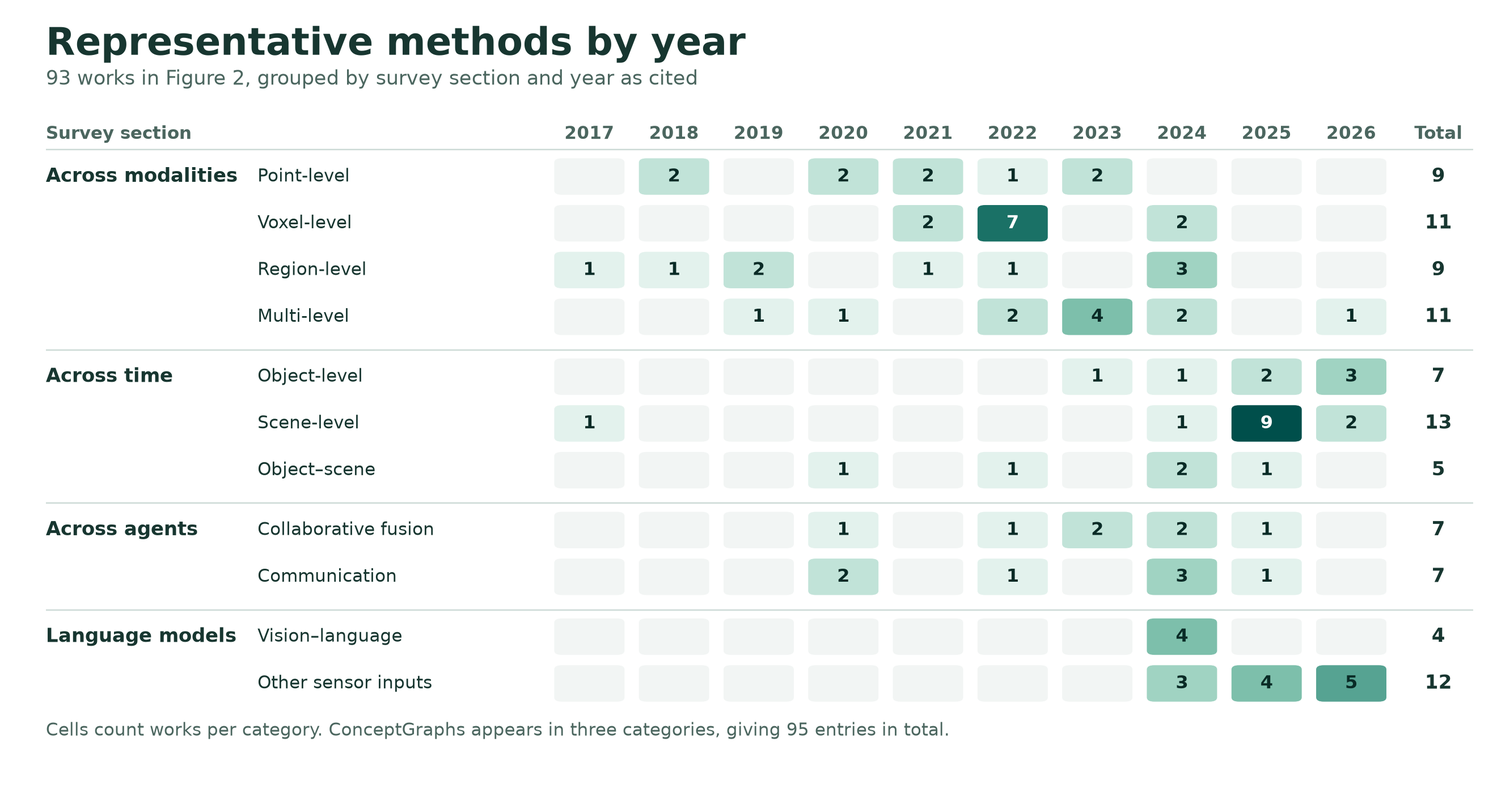
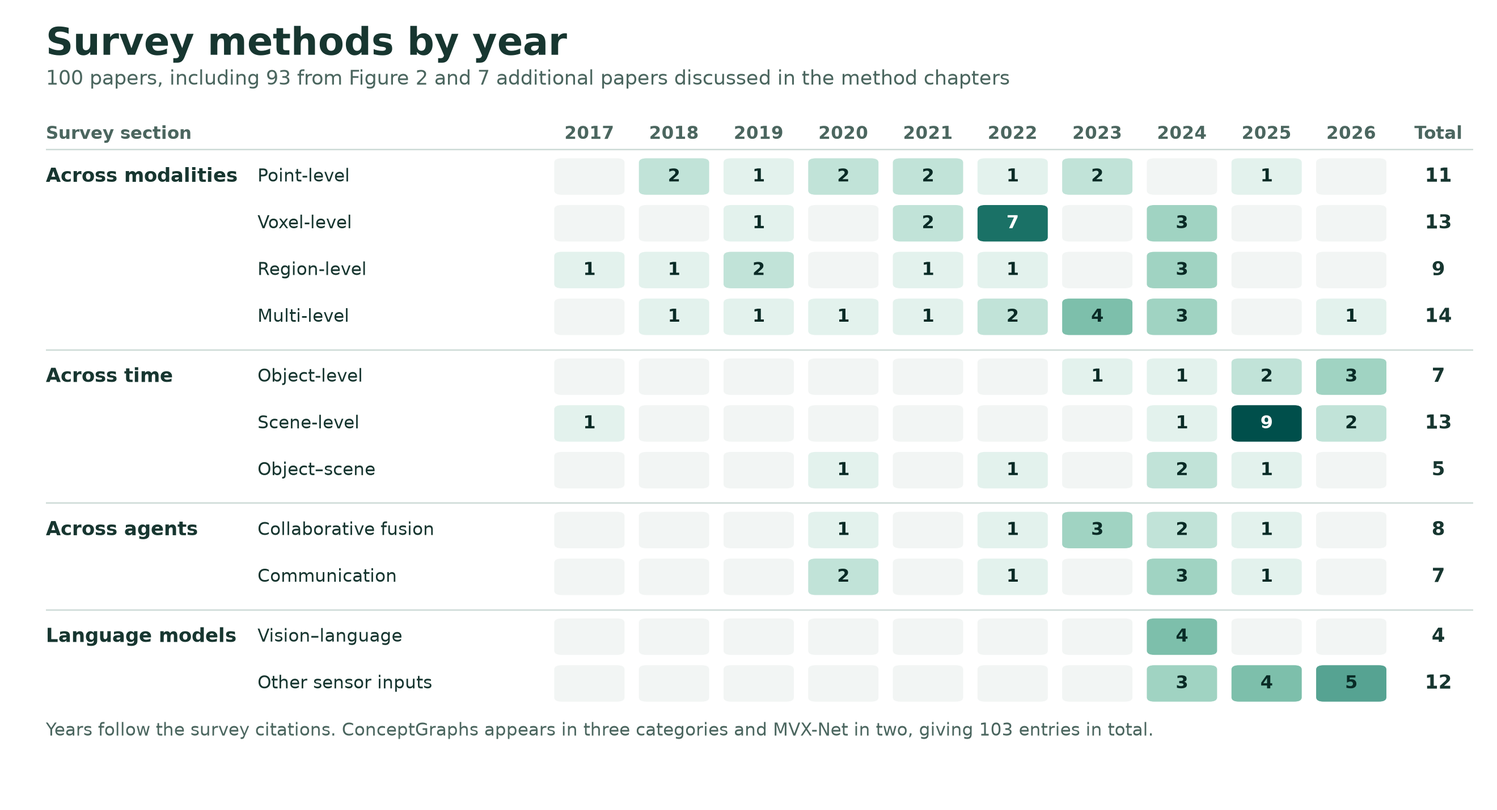
Include seven additional method papers discussed in the survey

diff --git a/CHAPTERS.md b/CHAPTERS.md
@@ -35,7 +35,7 @@ References are grouped by the dataset or method topic in which the survey cites 
 
 ### Point-level Fusion
 
-[Browse the methods in this Figure 2 category](METHODS.md#sec-3-1).
+[Browse the methods in this category](METHODS.md#sec-3-1).
 
 - [18](REFERENCES.md#ref-018) · **Frustum PointNets** · Frustum pointnets for 3d object detection from rgb-d data · [Paper](https://doi.org/10.1109/cvpr.2018.00102) · [Code](https://github.com/charlesq34/frustum-pointnets)
 - [19](REFERENCES.md#ref-019) · **PointFusion** · Pointfusion: Deep sensor fusion for 3d bounding box estimation · [Paper](https://openaccess.thecvf.com/content_cvpr_2018/html/Xu_PointFusion_Deep_Sensor_CVPR_2018_paper.html)
@@ -47,7 +47,7 @@ References are grouped by the dataset or method topic in which the survey cites 
 - [29](REFERENCES.md#ref-029) · **PointAugmenting** · Pointaugmenting: Cross-modal augmentation for 3d object detection · [Paper](https://doi.org/10.1109/cvpr46437.2021.01162) · [Code](https://github.com/VISION-SJTU/PointAugmenting)
 - [127](REFERENCES.md#ref-127) · Pointnet: Deep learning on point sets for 3d classification and segmentation · [Paper](https://openaccess.thecvf.com/content_cvpr_2017/html/Qi_PointNet_Deep_Learning_CVPR_2017_paper.html)
 - [128](REFERENCES.md#ref-128) · Pointnet++: Deep hierarchical feature learning on point sets in a metric space · [Paper](https://papers.nips.cc/paper_files/paper/2017/hash/d8bf84be3800d12f74d8b05e9b89836f-Abstract.html)
-- [129](REFERENCES.md#ref-129) · A multi-sensor fusion approach combined with RandLA-Net for large-scale point cloud segmentation in power grid scenario · [Paper](https://doi.org/10.3390/s25113350)
+- [129](REFERENCES.md#ref-129) · **Li et al. (power-grid segmentation)** · A multi-sensor fusion approach combined with RandLA-Net for large-scale point cloud segmentation in power grid scenario · [Paper](https://doi.org/10.3390/s25113350)
 
 **Additional entries in this Figure 2 category**
 
@@ -58,7 +58,7 @@ References are grouped by the dataset or method topic in which the survey cites 
 
 ### Voxel-level Fusion
 
-[Browse the methods in this Figure 2 category](METHODS.md#sec-3-2).
+[Browse the methods in this category](METHODS.md#sec-3-2).
 
 - [25](REFERENCES.md#ref-025) · **DeepFusion** · Deepfusion: Lidar-camera deep fusion for multi-modal 3d object detection · [Paper](https://openaccess.thecvf.com/content/CVPR2022/html/Li_DeepFusion_Lidar-Camera_Deep_Fusion_for_Multi-Modal_3D_Object_Detection_CVPR_2022_paper.html) · [Code](https://github.com/tensorflow/lingvo/blob/master/lingvo/tasks/car/deep_fusion.py)
 - [26](REFERENCES.md#ref-026) · **GraphAlign** · Graphalign: Enhancing accurate feature alignment by graph matching for multi-modal 3d object detection · [Paper](https://openaccess.thecvf.com/content/ICCV2023/html/Song_GraphAlign_Enhancing_Accurate_Feature_Alignment_by_Graph_matching_for_Multi-Modal_ICCV_2023_paper.html)
@@ -70,7 +70,7 @@ References are grouped by the dataset or method topic in which the survey cites 
 - [34](REFERENCES.md#ref-034) · **VoxelNeXtFusion** · Voxelnextfusion: A simple, unified and effective voxel fusion framework for multi-modal 3d object detection · [Paper](https://arxiv.org/abs/2401.02702)
 - [35](REFERENCES.md#ref-035) · **UVTR** · Unifying voxel-based representation with transformer for 3d object detection · [Paper](https://papers.nips.cc/paper_files/paper/2022/hash/752df938681b2cf15e5fc9689f0bcf3a-Abstract-Conference.html) · [Code](https://github.com/JIA-Lab-research/UVTR)
 - [36](REFERENCES.md#ref-036) · **HMFI** · Homogeneous multi-modal feature fusion and interaction for 3d object detection · [Paper](https://doi.org/10.1007/978-3-031-19839-7_40)
-- [130](REFERENCES.md#ref-130) · Real-time metric-semantic mapping for autonomous navigation in outdoor environments · [Paper](https://doi.org/10.1109/TASE.2024.3429280)
+- [130](REFERENCES.md#ref-130) · **Jiao et al. (metric-semantic mapping)** · Real-time metric-semantic mapping for autonomous navigation in outdoor environments · [Paper](https://doi.org/10.1109/TASE.2024.3429280)
 
 **Additional entries in this Figure 2 category**
 
@@ -82,7 +82,7 @@ References are grouped by the dataset or method topic in which the survey cites 
 
 ### Region-level Fusion
 
-[Browse the methods in this Figure 2 category](METHODS.md#sec-3-3).
+[Browse the methods in this category](METHODS.md#sec-3-3).
 
 - [27](REFERENCES.md#ref-027) · **CenterFusion** · CenterFusion: Center-based Radar and Camera Fusion for 3D Object Detection · [Paper](https://openaccess.thecvf.com/content/WACV2021/papers/Nabati_CenterFusion_Center-Based_Radar_and_Camera_Fusion_for_3D_Object_Detection_WACV_2021_paper.pdf) · [Code](https://github.com/mrnabati/CenterFusion)
 - [37](REFERENCES.md#ref-037) · **SFD** · Sparse fuse dense: Towards high quality 3d detection with depth completion · [Paper](https://openaccess.thecvf.com/content/CVPR2022/html/Wu_Sparse_Fuse_Dense_Towards_High_Quality_3D_Detection_With_Depth_CVPR_2022_paper.html) · [Code](https://github.com/LittlePey/SFD)
@@ -103,7 +103,7 @@ References are grouped by the dataset or method topic in which the survey cites 
 
 ### Multi-level Fusion
 
-[Browse the methods in this Figure 2 category](METHODS.md#sec-3-4).
+[Browse the methods in this category](METHODS.md#sec-3-4).
 
 - [46](REFERENCES.md#ref-046) · **RSDet** · Removal and selection: Improving RGB-infrared object detection via coarse-to-fine fusion · [Paper](https://arxiv.org/abs/2401.10731) · [Code](https://github.com/Zhao-Tian-yi/RSDet)
 - [47](REFERENCES.md#ref-047) · **MMF** · Multi-task multi-sensor fusion for 3d object detection · [Paper](https://doi.org/10.1109/cvpr.2019.00752)
@@ -117,10 +117,10 @@ References are grouped by the dataset or method topic in which the survey cites 
 - [55](REFERENCES.md#ref-055) · **SeaDATE** · SeaDATE: Remedy Dual-Attention Transformer with Semantic Alignment via Contrast Learning for Multimodal Object Detection · [Paper](https://doi.org/10.1109/tcsvt.2024.3520318)
 - [56](REFERENCES.md#ref-056) · **CSSA** · Multimodal object detection by channel switching and spatial attention · [Paper](https://openaccess.thecvf.com/content/CVPR2023W/PBVS/html/Cao_Multimodal_Object_Detection_by_Channel_Switching_and_Spatial_Attention_CVPRW_2023_paper.html)
 - [57](REFERENCES.md#ref-057) · **Fusion-Mamba** · Fusion-mamba for cross-modality object detection · [Paper](https://arxiv.org/abs/2404.09146) · [Code](https://github.com/EhanDong/Fusion-Mamba)
-- [131](REFERENCES.md#ref-131) · Deep continuous fusion for multi-sensor 3d object detection · [Paper](https://openaccess.thecvf.com/content_ECCV_2018/html/Ming_Liang_Deep_Continuous_Fusion_ECCV_2018_paper.html)
-- [132](REFERENCES.md#ref-132) · Cross-modality 3d object detection · [Paper](https://doi.org/10.1109/wacv48630.2021.00382)
-- [133](REFERENCES.md#ref-133) · Mvx-net: Multimodal voxelnet for 3d object detection · [Paper](https://arxiv.org/abs/1904.01649)
-- [134](REFERENCES.md#ref-134) · A deep-learning method based on the multistage fusion of radar and camera in uav obstacle avoidance · [Paper](https://doi.org/10.1109/TAES.2024.3406495)
+- [131](REFERENCES.md#ref-131) · **Deep Continuous Fusion** · Deep continuous fusion for multi-sensor 3d object detection · [Paper](https://openaccess.thecvf.com/content_ECCV_2018/html/Ming_Liang_Deep_Continuous_Fusion_ECCV_2018_paper.html)
+- [132](REFERENCES.md#ref-132) · **Cross-Modality 3D Object Detection** · Cross-modality 3d object detection · [Paper](https://doi.org/10.1109/wacv48630.2021.00382)
+- [133](REFERENCES.md#ref-133) · **MVX-Net** · Mvx-net: Multimodal voxelnet for 3d object detection · [Paper](https://arxiv.org/abs/1904.01649)
+- [134](REFERENCES.md#ref-134) · **Wang et al. (radar-camera obstacle avoidance)** · A deep-learning method based on the multistage fusion of radar and camera in uav obstacle avoidance · [Paper](https://doi.org/10.1109/TAES.2024.3406495)
 
 <a name="sec-4"></a>
 
@@ -130,7 +130,7 @@ References are grouped by the dataset or method topic in which the survey cites 
 
 ### Object-Level Temporal Fusion
 
-[Browse the methods in this Figure 2 category](METHODS.md#sec-4-1).
+[Browse the methods in this category](METHODS.md#sec-4-1).
 
 - [41](REFERENCES.md#ref-041) · **ConceptGraphs** · Conceptgraphs: Open-vocabulary 3d scene graphs for perception and planning · [Paper](https://doi.org/10.1109/ICRA57147.2024.10610243) · [Code](https://github.com/concept-graphs/concept-graphs)
 - [58](REFERENCES.md#ref-058) · **StreamPETR** · Exploring Object-Centric Temporal Modeling for Efficient Multi-View 3D Object Detection · [Paper](https://openaccess.thecvf.com/content/ICCV2023/html/Wang_Exploring_Object-Centric_Temporal_Modeling_for_Efficient_Multi-View_3D_Object_Detection_ICCV_2023_paper.html) · [Code](https://github.com/exiawsh/StreamPETR)
@@ -144,7 +144,7 @@ References are grouped by the dataset or method topic in which the survey cites 
 
 ### Scene-Level Temporal Fusion
 
-[Browse the methods in this Figure 2 category](METHODS.md#sec-4-2).
+[Browse the methods in this category](METHODS.md#sec-4-2).
 
 - [64](REFERENCES.md#ref-064) · **Q-TempFusion** · Q-TempFusion: Quantization-Aware Temporal Multi-Sensor Fusion on Bird's-Eye View Representation · [Paper](https://openaccess.thecvf.com/content/WACV2025/html/Yu_Q-TempFusion_Quantization-Aware_Temporal_Multi-Sensor_Fusion_on_Birds-Eye_View_Representation_WACV_2025_paper.html)
 - [65](REFERENCES.md#ref-065) · **CRT-Fusion** · CRT-Fusion: Camera, Radar, Temporal Fusion Using Motion Information for 3D Object Detection · [Paper](https://proceedings.neurips.cc/paper_files/paper/2024/hash/c49a28241640407b23bba8f2495f4bc9-Abstract-Conference.html) · [Code](https://github.com/mjseong0414/CRT-Fusion)
@@ -164,7 +164,7 @@ References are grouped by the dataset or method topic in which the survey cites 
 
 ### Object–Scene Temporal Fusion
 
-[Browse the methods in this Figure 2 category](METHODS.md#sec-4-3).
+[Browse the methods in this category](METHODS.md#sec-4-3).
 
 - [41](REFERENCES.md#ref-041) · **ConceptGraphs** · Conceptgraphs: Open-vocabulary 3d scene graphs for perception and planning · [Paper](https://doi.org/10.1109/ICRA57147.2024.10610243) · [Code](https://github.com/concept-graphs/concept-graphs)
 - [77](REFERENCES.md#ref-077) · **DovSG** · Dynamic open-vocabulary 3d scene graphs for long-term language-guided mobile manipulation · [Paper](https://doi.org/10.1109/LRA.2025.3547643) · [Code](https://github.com/BJHYZJ/DovSG)
@@ -183,7 +183,7 @@ References are grouped by the dataset or method topic in which the survey cites 
 
 ### Collaborative Fusion
 
-[Browse the methods in this Figure 2 category](METHODS.md#sec-5-1).
+[Browse the methods in this category](METHODS.md#sec-5-1).
 
 - [81](REFERENCES.md#ref-081) · **V2VNet** · V2vnet: Vehicle-to-vehicle communication for joint perception and prediction · [Paper](https://www.ecva.net/papers/eccv_2020/papers_ECCV/papers/123470596.pdf)
 - [82](REFERENCES.md#ref-082) · **CoBEVT** · Cobevt: Cooperative bird's eye view semantic segmentation with sparse transformers · [Paper](https://arxiv.org/abs/2207.02202) · [Code](https://github.com/DerrickXuNu/CoBEVT)
@@ -192,13 +192,13 @@ References are grouped by the dataset or method topic in which the survey cites 
 - [85](REFERENCES.md#ref-085) · **HM-ViT** · HM-ViT: Hetero-modal vehicle-to-vehicle cooperative perception with vision transformer · [Paper](https://openaccess.thecvf.com/content/ICCV2023/html/Xiang_HM-ViT_Hetero-Modal_Vehicle-to-Vehicle_Cooperative_Perception_with_Vision_Transformer_ICCV_2023_paper.html) · [Code](https://github.com/XHwind/HM-ViT)
 - [86](REFERENCES.md#ref-086) · **MCOP** · MCOP: Multi-UAV Collaborative Occupancy Prediction · [Paper](https://openaccess.thecvf.com/content/ICCV2025/html/Lin_MCOP_Multi-UAV_Collaborative_Occupancy_Prediction_ICCV_2025_paper.html)
 - [87](REFERENCES.md#ref-087) · **MRCNet** · Multi-agent Collaborative Perception via Motion-aware Robust Communication Network · [Paper](https://openaccess.thecvf.com/content/CVPR2024/html/Hong_Multi-agent_Collaborative_Perception_via_Motion-aware_Robust_Communication_Network_CVPR_2024_paper.html)
-- [135](REFERENCES.md#ref-135) · Visual, spatial, geometric-preserved place recognition for cross-view and cross-modal collaborative perception · [Paper](https://doi.org/10.1109/IROS55552.2023.10341898)
+- [135](REFERENCES.md#ref-135) · **Gao et al. (cross-view place recognition)** · Visual, spatial, geometric-preserved place recognition for cross-view and cross-modal collaborative perception · [Paper](https://doi.org/10.1109/IROS55552.2023.10341898)
 
 <a name="sec-5-2"></a>
 
 ### Agent-to-Agent Communication
 
-[Browse the methods in this Figure 2 category](METHODS.md#sec-5-2).
+[Browse the methods in this category](METHODS.md#sec-5-2).
 
 - [88](REFERENCES.md#ref-088) · **When2com** · When2com: Multi-agent perception via communication graph grouping · [Paper](https://doi.org/10.1109/CVPR42600.2020.00416) · [Code](https://github.com/GT-RIPL/MultiAgentPerception)
 - [89](REFERENCES.md#ref-089) · **Who2com** · Who2com: Collaborative perception via learnable handshake communication · [Paper](https://doi.org/10.1109/ICRA40945.2020.9197364) · [Project](https://ycliu93.github.io/projects/multi-agent-perception.html)
@@ -216,7 +216,7 @@ References are grouped by the dataset or method topic in which the survey cites 
 
 ### Vision–Language Models
 
-[Browse the methods in this Figure 2 category](METHODS.md#sec-6-1).
+[Browse the methods in this category](METHODS.md#sec-6-1).
 
 - [95](REFERENCES.md#ref-095) · **SpatialVLM** · Spatialvlm: Endowing vision-language models with spatial reasoning capabilities · [Paper](https://doi.org/10.1109/CVPR52733.2024.01370) · [Project](https://spatial-vlm.github.io/)
 - [96](REFERENCES.md#ref-096) · **RoboPoint** · RoboPoint: A Vision-Language Model for Spatial Affordance Prediction for Robotics · [Paper](https://arxiv.org/abs/2406.10721) · [Code](https://github.com/wentaoyuan/RoboPoint)
@@ -227,7 +227,7 @@ References are grouped by the dataset or method topic in which the survey cites 
 
 ### LLMs with Other Sensor Modalities
 
-[Browse the methods in this Figure 2 category](METHODS.md#sec-6-2).
+[Browse the methods in this category](METHODS.md#sec-6-2).
 
 - [99](REFERENCES.md#ref-099) · **LiDAR-LLM** · Lidar-llm: Exploring the potential of large language models for 3d lidar understanding · [Paper](https://ojs.aaai.org/index.php/AAAI/article/download/33001/35156) · [Project](https://sites.google.com/view/lidar-llm)
 - [100](REFERENCES.md#ref-100) · **TOD3Cap** · Tod3cap: Towards 3d dense captioning in outdoor scenes · [Paper](https://doi.org/10.1007/978-3-031-72649-1_21) · [Code](https://github.com/jxbbb/TOD3Cap)

diff --git a/README.md b/README.md
@@ -7,11 +7,11 @@ Datasets and methods for embodied perception across modalities, time, and agents
 
 [Datasets](#datasets) · [Methods](#methods)
 
-![Counts of Figure 2 methods by publication year and survey category, from 2017 to 2026.](method-timeline.png)
+![Counts of method papers by publication year and category, from 2017 to 2026.](method-timeline.png)
 
 ## Latest update
 
-**18 November 2026** · The catalog includes 15 datasets and 118 references. The method tables cover the 93 representative works in Figure 2. Original manuscript reference numbers are preserved.
+**18 November 2026** · The catalog includes 15 datasets and 118 references. The tables cover 100 method papers, including 93 from Figure 2 and seven additional papers discussed in the text.
 
 <a name="methods-nav"></a>
 
@@ -51,7 +51,7 @@ Each dataset name links to its project. Scale refers to the subset or release su
 
 ## Methods
 
-Method names and group assignments follow Figure 2. Each paper title is paired with its venue and year as cited. The resource column links to the paper and, where verified, author code or a project page. ConceptGraphs appears in three groups. The two Hydra entries correspond to distinct papers. The [section index](CHAPTERS.md) also includes nine additional references discussed in the method chapters.
+The tables link each paper to its source and, where available, the authors’ code or project page. Within each category, the Figure 2 entries appear first, followed by additional methods discussed in the text. ConceptGraphs appears in three categories. MVX-Net has separate point-level and voxel-level variants, each listed under its fusion type.
 
 ### Across modalities
 
@@ -71,6 +71,13 @@ Method names and group assignments follow Figure 2. Each paper title is paired w
 | **DeepFusion** | Deepfusion: Lidar-camera deep fusion for multi-modal 3d object detection | CVPR · 2022 | [Paper](https://openaccess.thecvf.com/content/CVPR2022/html/Li_DeepFusion_Lidar-Camera_Deep_Fusion_for_Multi-Modal_3D_Object_Detection_CVPR_2022_paper.html) · [Code](https://github.com/tensorflow/lingvo/blob/master/lingvo/tasks/car/deep_fusion.py) | [25](REFERENCES.md#ref-025) |
 | **GraphAlign** | Graphalign: Enhancing accurate feature alignment by graph matching for multi-modal 3d object detection | ICCV · 2023 | [Paper](https://openaccess.thecvf.com/content/ICCV2023/html/Song_GraphAlign_Enhancing_Accurate_Feature_Alignment_by_Graph_matching_for_Multi-Modal_ICCV_2023_paper.html) | [26](REFERENCES.md#ref-026) |
 
+**Additional methods discussed in the text**
+
+| Method | Paper title | Venue · year as cited | Resources | Ref. |
+| --- | --- | --- | --- | ---: |
+| **Li et al. (power-grid segmentation)** | A multi-sensor fusion approach combined with RandLA-Net for large-scale point cloud segmentation in power grid scenario | Sensors · 2025 | [Paper](https://doi.org/10.3390/s25113350) | [129](REFERENCES.md#ref-129) |
+| **MVX-Net (PointFusion variant)** | Mvx-net: Multimodal voxelnet for 3d object detection | ICRA · 2019 | [Paper](https://arxiv.org/abs/1904.01649) | [133](REFERENCES.md#ref-133) |
+
 <a name="methods-3-2"></a>
 
 #### Voxel-level Fusion
@@ -88,6 +95,13 @@ Method names and group assignments follow Figure 2. Each paper title is paired w
 | **UVTR** | Unifying voxel-based representation with transformer for 3d object detection | NeurIPS · 2022 | [Paper](https://papers.nips.cc/paper_files/paper/2022/hash/752df938681b2cf15e5fc9689f0bcf3a-Abstract-Conference.html) · [Code](https://github.com/JIA-Lab-research/UVTR) | [35](REFERENCES.md#ref-035) |
 | **HMFI** | Homogeneous multi-modal feature fusion and interaction for 3d object detection | ECCV · 2022 | [Paper](https://doi.org/10.1007/978-3-031-19839-7_40) | [36](REFERENCES.md#ref-036) |
 | **SFD** | Sparse fuse dense: Towards high quality 3d detection with depth completion | CVPR · 2022 | [Paper](https://openaccess.thecvf.com/content/CVPR2022/html/Wu_Sparse_Fuse_Dense_Towards_High_Quality_3D_Detection_With_Depth_CVPR_2022_paper.html) · [Code](https://github.com/LittlePey/SFD) | [37](REFERENCES.md#ref-037) |
+
+**Additional methods discussed in the text**
+
+| Method | Paper title | Venue · year as cited | Resources | Ref. |
+| --- | --- | --- | --- | ---: |
+| **Jiao et al. (metric-semantic mapping)** | Real-time metric-semantic mapping for autonomous navigation in outdoor environments | IEEE T-ASE · 2024 | [Paper](https://doi.org/10.1109/TASE.2024.3429280) | [130](REFERENCES.md#ref-130) |
+| **MVX-Net (VoxelFusion variant)** | Mvx-net: Multimodal voxelnet for 3d object detection | ICRA · 2019 | [Paper](https://arxiv.org/abs/1904.01649) | [133](REFERENCES.md#ref-133) |
 
 <a name="methods-3-3"></a>
 
@@ -122,6 +136,14 @@ Method names and group assignments follow Figure 2. Each paper title is paired w
 | **SeaDATE** | SeaDATE: Remedy Dual-Attention Transformer with Semantic Alignment via Contrast Learning for Multimodal Object Detection | IEEE TCSVT · 2024 | [Paper](https://doi.org/10.1109/tcsvt.2024.3520318) | [55](REFERENCES.md#ref-055) |
 | **CSSA** | Multimodal object detection by channel switching and spatial attention | CVPR · 2023 | [Paper](https://openaccess.thecvf.com/content/CVPR2023W/PBVS/html/Cao_Multimodal_Object_Detection_by_Channel_Switching_and_Spatial_Attention_CVPRW_2023_paper.html) | [56](REFERENCES.md#ref-056) |
 | **Fusion-Mamba** | Fusion-mamba for cross-modality object detection | arXiv · 2024 | [Paper](https://arxiv.org/abs/2404.09146) · [Code](https://github.com/EhanDong/Fusion-Mamba) | [57](REFERENCES.md#ref-057) |
+
+**Additional methods discussed in the text**
+
+| Method | Paper title | Venue · year as cited | Resources | Ref. |
+| --- | --- | --- | --- | ---: |
+| **Deep Continuous Fusion** | Deep continuous fusion for multi-sensor 3d object detection | ECCV · 2018 | [Paper](https://openaccess.thecvf.com/content_ECCV_2018/html/Ming_Liang_Deep_Continuous_Fusion_ECCV_2018_paper.html) | [131](REFERENCES.md#ref-131) |
+| **Cross-Modality 3D Object Detection** | Cross-modality 3d object detection | WACV · 2021 | [Paper](https://doi.org/10.1109/wacv48630.2021.00382) | [132](REFERENCES.md#ref-132) |
+| **Wang et al. (radar-camera obstacle avoidance)** | A deep-learning method based on the multistage fusion of radar and camera in uav obstacle avoidance | IEEE TAES · 2024 | [Paper](https://doi.org/10.1109/TAES.2024.3406495) | [134](REFERENCES.md#ref-134) |
 
 ### Across time
 
@@ -186,6 +208,12 @@ Method names and group assignments follow Figure 2. Each paper title is paired w
 | **HM-ViT** | HM-ViT: Hetero-modal vehicle-to-vehicle cooperative perception with vision transformer | ICCV · 2023 | [Paper](https://openaccess.thecvf.com/content/ICCV2023/html/Xiang_HM-ViT_Hetero-Modal_Vehicle-to-Vehicle_Cooperative_Perception_with_Vision_Transformer_ICCV_2023_paper.html) · [Code](https://github.com/XHwind/HM-ViT) | [85](REFERENCES.md#ref-085) |
 | **MCOP** | MCOP: Multi-UAV Collaborative Occupancy Prediction | ICCV · 2025 | [Paper](https://openaccess.thecvf.com/content/ICCV2025/html/Lin_MCOP_Multi-UAV_Collaborative_Occupancy_Prediction_ICCV_2025_paper.html) | [86](REFERENCES.md#ref-086) |
 | **MRCNet** | Multi-agent Collaborative Perception via Motion-aware Robust Communication Network | CVPR · 2024 | [Paper](https://openaccess.thecvf.com/content/CVPR2024/html/Hong_Multi-agent_Collaborative_Perception_via_Motion-aware_Robust_Communication_Network_CVPR_2024_paper.html) | [87](REFERENCES.md#ref-087) |
+
+**Additional methods discussed in the text**
+
+| Method | Paper title | Venue · year as cited | Resources | Ref. |
+| --- | --- | --- | --- | ---: |
+| **Gao et al. (cross-view place recognition)** | Visual, spatial, geometric-preserved place recognition for cross-view and cross-modal collaborative perception | IROS · 2023 | [Paper](https://doi.org/10.1109/IROS55552.2023.10341898) | [135](REFERENCES.md#ref-135) |
 
 <a name="methods-5-2"></a>
 

diff --git a/METHODS.md b/METHODS.md
@@ -1,8 +1,8 @@
-# Methods in Figure 2
+# Methods for embodied perception
 
 [Overview](README.md) · [References](REFERENCES.md) · [All method-chapter papers](CHAPTERS.md#sec-3)
 
-The survey groups 93 works into 11 categories. ConceptGraphs appears under region-level, object-level temporal, and object–scene temporal fusion. The two entries named Hydra refer to different papers.
+The tables cover 100 method papers across 11 categories: 93 from Figure 2 and seven additional papers discussed in the text. ConceptGraphs appears under region-level, object-level temporal, and object–scene temporal fusion. MVX-Net appears under both point-level and voxel-level fusion for its two variants. The two entries named Hydra refer to different papers.
 
 - [Point-level Fusion](#sec-3-1)
 - [Voxel-level Fusion](#sec-3-2)
@@ -32,6 +32,13 @@ The survey groups 93 works into 11 categories. ConceptGraphs appears under regio
 | **DeepFusion** | Deepfusion: Lidar-camera deep fusion for multi-modal 3d object detection | CVPR · 2022 | [Paper](https://openaccess.thecvf.com/content/CVPR2022/html/Li_DeepFusion_Lidar-Camera_Deep_Fusion_for_Multi-Modal_3D_Object_Detection_CVPR_2022_paper.html) · [Code](https://github.com/tensorflow/lingvo/blob/master/lingvo/tasks/car/deep_fusion.py) | [25](REFERENCES.md#ref-025) |
 | **GraphAlign** | Graphalign: Enhancing accurate feature alignment by graph matching for multi-modal 3d object detection | ICCV · 2023 | [Paper](https://openaccess.thecvf.com/content/ICCV2023/html/Song_GraphAlign_Enhancing_Accurate_Feature_Alignment_by_Graph_matching_for_Multi-Modal_ICCV_2023_paper.html) | [26](REFERENCES.md#ref-026) |
 
+**Additional methods discussed in the text**
+
+| Method | Paper title | Venue · year as cited | Resources | Ref. |
+| --- | --- | --- | --- | ---: |
+| **Li et al. (power-grid segmentation)** | A multi-sensor fusion approach combined with RandLA-Net for large-scale point cloud segmentation in power grid scenario | Sensors · 2025 | [Paper](https://doi.org/10.3390/s25113350) | [129](REFERENCES.md#ref-129) |
+| **MVX-Net (PointFusion variant)** | Mvx-net: Multimodal voxelnet for 3d object detection | ICRA · 2019 | [Paper](https://arxiv.org/abs/1904.01649) | [133](REFERENCES.md#ref-133) |
+
 <a name="sec-3-2"></a>
 
 ## Voxel-level Fusion
@@ -49,6 +56,13 @@ The survey groups 93 works into 11 categories. ConceptGraphs appears under regio
 | **UVTR** | Unifying voxel-based representation with transformer for 3d object detection | NeurIPS · 2022 | [Paper](https://papers.nips.cc/paper_files/paper/2022/hash/752df938681b2cf15e5fc9689f0bcf3a-Abstract-Conference.html) · [Code](https://github.com/JIA-Lab-research/UVTR) | [35](REFERENCES.md#ref-035) |
 | **HMFI** | Homogeneous multi-modal feature fusion and interaction for 3d object detection | ECCV · 2022 | [Paper](https://doi.org/10.1007/978-3-031-19839-7_40) | [36](REFERENCES.md#ref-036) |
 | **SFD** | Sparse fuse dense: Towards high quality 3d detection with depth completion | CVPR · 2022 | [Paper](https://openaccess.thecvf.com/content/CVPR2022/html/Wu_Sparse_Fuse_Dense_Towards_High_Quality_3D_Detection_With_Depth_CVPR_2022_paper.html) · [Code](https://github.com/LittlePey/SFD) | [37](REFERENCES.md#ref-037) |
+
+**Additional methods discussed in the text**
+
+| Method | Paper title | Venue · year as cited | Resources | Ref. |
+| --- | --- | --- | --- | ---: |
+| **Jiao et al. (metric-semantic mapping)** | Real-time metric-semantic mapping for autonomous navigation in outdoor environments | IEEE T-ASE · 2024 | [Paper](https://doi.org/10.1109/TASE.2024.3429280) | [130](REFERENCES.md#ref-130) |
+| **MVX-Net (VoxelFusion variant)** | Mvx-net: Multimodal voxelnet for 3d object detection | ICRA · 2019 | [Paper](https://arxiv.org/abs/1904.01649) | [133](REFERENCES.md#ref-133) |
 
 <a name="sec-3-3"></a>
 
@@ -83,6 +97,14 @@ The survey groups 93 works into 11 categories. ConceptGraphs appears under regio
 | **SeaDATE** | SeaDATE: Remedy Dual-Attention Transformer with Semantic Alignment via Contrast Learning for Multimodal Object Detection | IEEE TCSVT · 2024 | [Paper](https://doi.org/10.1109/tcsvt.2024.3520318) | [55](REFERENCES.md#ref-055) |
 | **CSSA** | Multimodal object detection by channel switching and spatial attention | CVPR · 2023 | [Paper](https://openaccess.thecvf.com/content/CVPR2023W/PBVS/html/Cao_Multimodal_Object_Detection_by_Channel_Switching_and_Spatial_Attention_CVPRW_2023_paper.html) | [56](REFERENCES.md#ref-056) |
 | **Fusion-Mamba** | Fusion-mamba for cross-modality object detection | arXiv · 2024 | [Paper](https://arxiv.org/abs/2404.09146) · [Code](https://github.com/EhanDong/Fusion-Mamba) | [57](REFERENCES.md#ref-057) |
+
+**Additional methods discussed in the text**
+
+| Method | Paper title | Venue · year as cited | Resources | Ref. |
+| --- | --- | --- | --- | ---: |
+| **Deep Continuous Fusion** | Deep continuous fusion for multi-sensor 3d object detection | ECCV · 2018 | [Paper](https://openaccess.thecvf.com/content_ECCV_2018/html/Ming_Liang_Deep_Continuous_Fusion_ECCV_2018_paper.html) | [131](REFERENCES.md#ref-131) |
+| **Cross-Modality 3D Object Detection** | Cross-modality 3d object detection | WACV · 2021 | [Paper](https://doi.org/10.1109/wacv48630.2021.00382) | [132](REFERENCES.md#ref-132) |
+| **Wang et al. (radar-camera obstacle avoidance)** | A deep-learning method based on the multistage fusion of radar and camera in uav obstacle avoidance | IEEE TAES · 2024 | [Paper](https://doi.org/10.1109/TAES.2024.3406495) | [134](REFERENCES.md#ref-134) |
 
 <a name="sec-4-1"></a>
 
@@ -143,6 +165,12 @@ The survey groups 93 works into 11 categories. ConceptGraphs appears under regio
 | **HM-ViT** | HM-ViT: Hetero-modal vehicle-to-vehicle cooperative perception with vision transformer | ICCV · 2023 | [Paper](https://openaccess.thecvf.com/content/ICCV2023/html/Xiang_HM-ViT_Hetero-Modal_Vehicle-to-Vehicle_Cooperative_Perception_with_Vision_Transformer_ICCV_2023_paper.html) · [Code](https://github.com/XHwind/HM-ViT) | [85](REFERENCES.md#ref-085) |
 | **MCOP** | MCOP: Multi-UAV Collaborative Occupancy Prediction | ICCV · 2025 | [Paper](https://openaccess.thecvf.com/content/ICCV2025/html/Lin_MCOP_Multi-UAV_Collaborative_Occupancy_Prediction_ICCV_2025_paper.html) | [86](REFERENCES.md#ref-086) |
 | **MRCNet** | Multi-agent Collaborative Perception via Motion-aware Robust Communication Network | CVPR · 2024 | [Paper](https://openaccess.thecvf.com/content/CVPR2024/html/Hong_Multi-agent_Collaborative_Perception_via_Motion-aware_Robust_Communication_Network_CVPR_2024_paper.html) | [87](REFERENCES.md#ref-087) |
+
+**Additional methods discussed in the text**
+
+| Method | Paper title | Venue · year as cited | Resources | Ref. |
+| --- | --- | --- | --- | ---: |
+| **Gao et al. (cross-view place recognition)** | Visual, spatial, geometric-preserved place recognition for cross-view and cross-modal collaborative perception | IROS · 2023 | [Paper](https://doi.org/10.1109/IROS55552.2023.10341898) | [135](REFERENCES.md#ref-135) |
 
 <a name="sec-5-2"></a>
 

diff --git a/REFERENCES.md b/REFERENCES.md
@@ -1,6 +1,6 @@
 # Dataset and method references
 
-[Overview](README.md) · [Section index](CHAPTERS.md) · [Figure 2 methods](METHODS.md) · [Download CSV](references.csv)
+[Overview](README.md) · [Section index](CHAPTERS.md) · [Method tables](METHODS.md) · [Download CSV](references.csv)
 
 These 118 references cover the datasets and methods in the survey, including the works in Figure 2. Numbers follow the 17 November 2026 manuscript and retain gaps where out-of-scope references were omitted. Section links point to the section index. Figure links point to the method categories.
 
